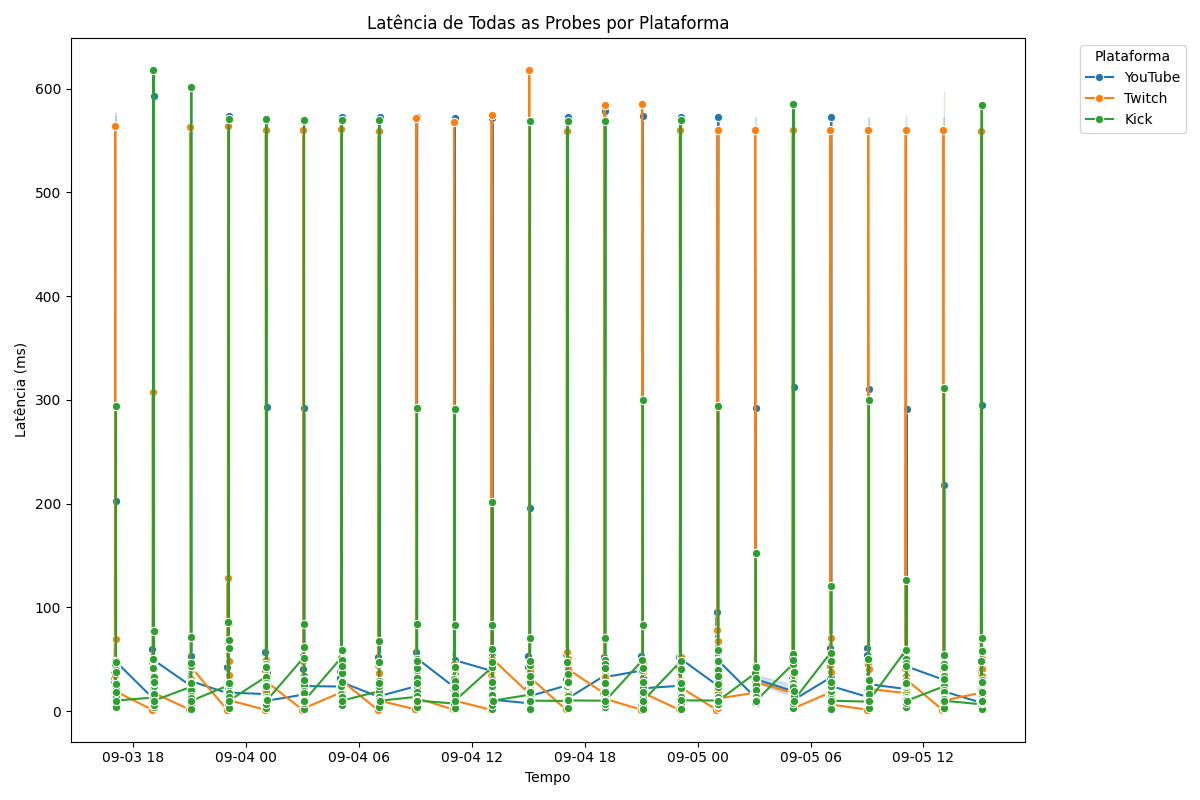
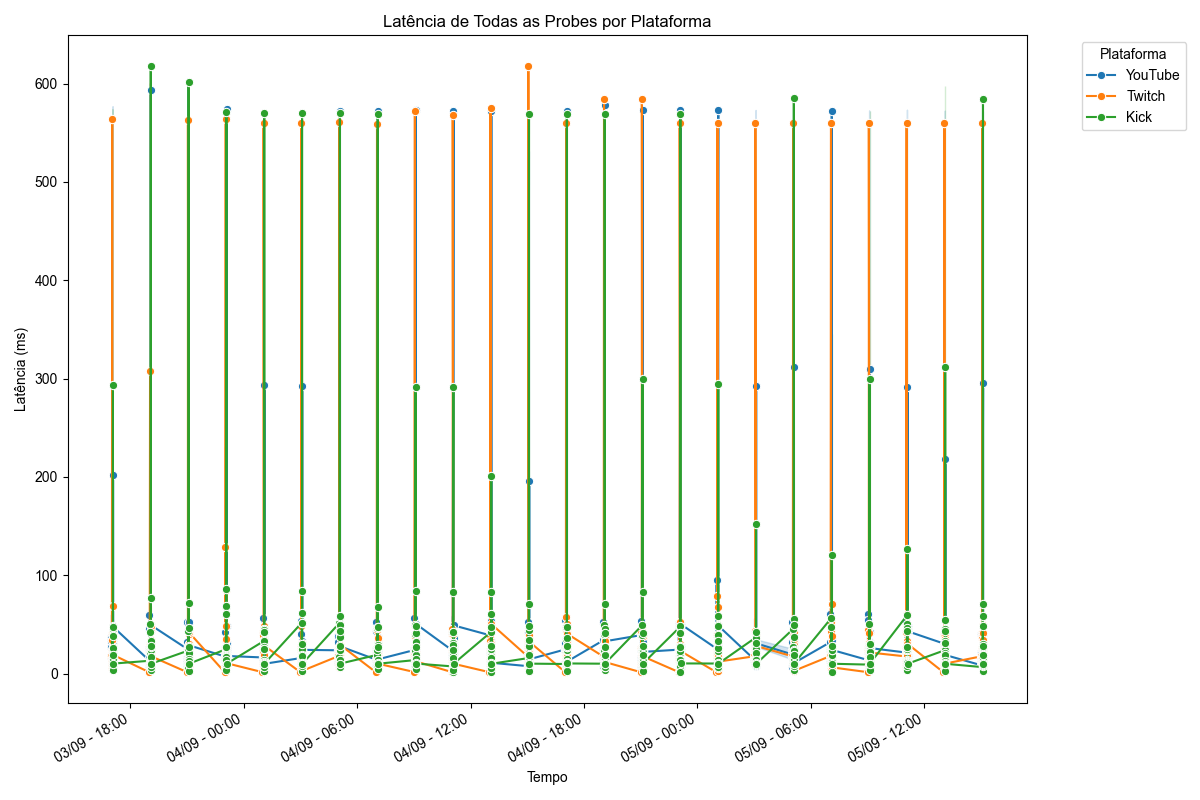
Merge branch-keven main

diff --git a/detalhado.py b/detalhado.py
@@ -3,6 +3,29 @@ import os
 import pandas as pd
 import matplotlib.pyplot as plt
 import seaborn as sns
+from matplotlib.dates import DateFormatter
+
+# Configuração para garantir que os gráficos usem UTF-8 e exibam acentos corretamente
+plt.rcParams['axes.unicode_minus'] = False
+plt.rcParams['font.family'] = 'sans-serif'
+plt.rcParams['font.sans-serif'] = ['Arial']
+
+# Dicionário para mapear as siglas dos países para os nomes completos
+country_mapping = {
+    'AR': 'Argentina',
+    'BR': 'Brasil',
+    'US': 'Estados Unidos',
+    'FR': 'França',
+    'DE': 'Alemanha',
+    'JP': 'Japão',
+    'CN': 'China',
+    'RU': 'Rússia',
+    'IN': 'Índia',
+    'MX': 'México',
+    'CA': 'Canadá',
+    'ES': 'Espanha',
+    # Adicione outros países conforme necessário
+}
 
 # Criar pasta para salvar os gráficos se ela não existir
 output_dir = 'graficos_detalhados'
@@ -11,13 +34,13 @@ if not os.path.exists(output_dir):
 
 # Função para carregar e processar os dados de um arquivo JSON
 def load_and_process_data(file_path, platform):
-    with open(file_path) as f:
+    with open(file_path, encoding='utf-8') as f:
         data = json.load(f)
     
     trace_list = []
     for entry in data:
         prb_id = entry.get('prb_id')
-        country = entry.get('country')
+        country = country_mapping.get(entry.get('country'), entry.get('country'))  # Mapeando a sigla do país
         continent = entry.get('continent')
         latency = entry.get('rtt_destino')  # Latência é 'rtt_destino'
         hops = entry.get('hops')  # Número de saltos
@@ -40,7 +63,13 @@ df = pd.DataFrame(combined_data, columns=['prb_id', 'country', 'continent', 'des
 # Converter os timestamps para o formato de data
 df['timestamp'] = pd.to_datetime(df['timestamp'], unit='s')
 
-# Gráfico: Todas as probes por site (latência - RTT)
+# Função para formatar o eixo de tempo (data/hora)
+def format_time_axis():
+    date_format = DateFormatter("%d/%m - %H:%M")
+    plt.gca().xaxis.set_major_formatter(date_format)
+    plt.gcf().autofmt_xdate()
+
+# Gráfico: Todas as probes por site (latência - Latência (ms))
 def plot_probes_by_platform(df):
     plt.figure(figsize=(12, 8))
     sns.lineplot(data=df, x='timestamp', y='latency', hue='platform', marker='o')
@@ -48,9 +77,10 @@ def plot_probes_by_platform(df):
     plt.ylabel('Latência (ms)')
     plt.title('Latência de Todas as Probes por Plataforma')
     plt.legend(title='Plataforma', bbox_to_anchor=(1.05, 1), loc='upper left')
+    format_time_axis()
     plt.tight_layout()
     plt.savefig(os.path.join(output_dir, 'all_probes_latency_by_platform.png'))
-    plt.show()
+    plt.close()  # Fechar a figura sem mostrar
 
 # Gráficos: Países por site (RTT e hops)
 def plot_by_country(df, metric='latency'):
@@ -58,12 +88,16 @@ def plot_by_country(df, metric='latency'):
         plt.figure(figsize=(12, 8))
         sns.lineplot(data=group, x='timestamp', y=metric, hue='platform', marker='o')
         plt.xlabel('Tempo')
-        plt.ylabel(f'{metric.capitalize()}')
+        if metric == 'latency':
+            plt.ylabel('Latência (ms)')
+        else:
+            plt.ylabel(f'{metric.capitalize()}')
         plt.title(f'{metric.capitalize()} por País: {country}')
         plt.legend(title='Plataforma', bbox_to_anchor=(1.05, 1), loc='upper left')
+        format_time_axis()
         plt.tight_layout()
         plt.savefig(os.path.join(output_dir, f'{metric}_by_country_{country}.png'))
-        plt.show()
+        plt.close()  # Fechar a figura sem mostrar
 
 # Gráficos: Continente por site (RTT e hops)
 def plot_by_continent(df, metric='latency'):
@@ -71,12 +105,18 @@ def plot_by_continent(df, metric='latency'):
         plt.figure(figsize=(12, 8))
         sns.lineplot(data=group, x='timestamp', y=metric, hue='platform', marker='o')
         plt.xlabel('Tempo')
-        plt.ylabel(f'{metric.capitalize()}')
-        plt.title(f'{metric.capitalize()} por Continente: {continent}')
+        if metric == 'latency':
+            plt.ylabel('Latência (ms)')
+        else:
+            plt.ylabel(f'{metric.capitalize()}')
+        # Corrigindo o termo 'América' e garantindo UTF-8
+        continent_name = 'América' if continent == 'America' else continent
+        plt.title(f'{metric.capitalize()} por Continente: {continent_name}')
         plt.legend(title='Plataforma', bbox_to_anchor=(1.05, 1), loc='upper left')
+        format_time_axis()
         plt.tight_layout()
-        plt.savefig(os.path.join(output_dir, f'{metric}_by_continent_{continent}.png'))
-        plt.show()
+        plt.savefig(os.path.join(output_dir, f'{metric}_by_continent_{continent_name}.png'))
+        plt.close()  # Fechar a figura sem mostrar
 
 # Gráficos: Média geral de RTT e hops para os três sites
 def plot_overall_average(df):
@@ -89,9 +129,10 @@ def plot_overall_average(df):
     plt.ylabel('Média de Latência (ms)')
     plt.title('Média Geral de Latência por Plataforma')
     plt.legend(title='Plataforma', bbox_to_anchor=(1.05, 1), loc='upper left')
+    format_time_axis()
     plt.tight_layout()
     plt.savefig(os.path.join(output_dir, 'average_latency_by_platform.png'))
-    plt.show()
+    plt.close()  # Fechar a figura sem mostrar
 
     # Média de hops
     plt.figure(figsize=(12, 8))
@@ -100,9 +141,10 @@ def plot_overall_average(df):
     plt.ylabel('Média de Hops')
     plt.title('Média Geral de Hops por Plataforma')
     plt.legend(title='Plataforma', bbox_to_anchor=(1.05, 1), loc='upper left')
+    format_time_axis()
     plt.tight_layout()
     plt.savefig(os.path.join(output_dir, 'average_hops_by_platform.png'))
-    plt.show()
+    plt.close()  # Fechar a figura sem mostrar
 
 # Chamando as funções para gerar os gráficos solicitados
 plot_probes_by_platform(df)

diff --git a/atualiza_probes.go b/atualiza_probes.go
@@ -188,7 +188,7 @@ func updateJSONWithLocation(entries []OriginalData) []ProbeEntry {
 
 func main() {
 	// Carregar o arquivo JSON
-	file, err := os.Open("kick.json")
+	file, err := os.Open("twitch.json")
 	if err != nil {
 		fmt.Printf("Erro ao abrir o arquivo: %v\n", err)
 		return
@@ -214,7 +214,7 @@ func main() {
 		return
 	}
 
-	err = ioutil.WriteFile("kick_probes.json", updatedData, 0644)
+	err = ioutil.WriteFile("twitch_probes.json", updatedData, 0644)
 	if err != nil {
 		fmt.Printf("Erro ao salvar o arquivo atualizado: %v\n", err)
 		return
